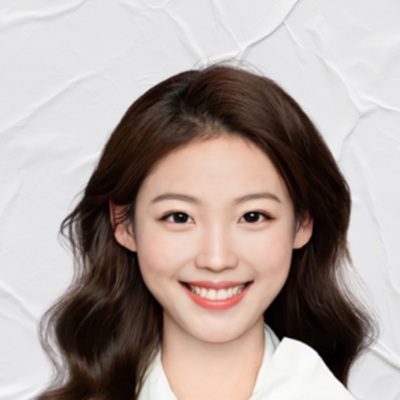
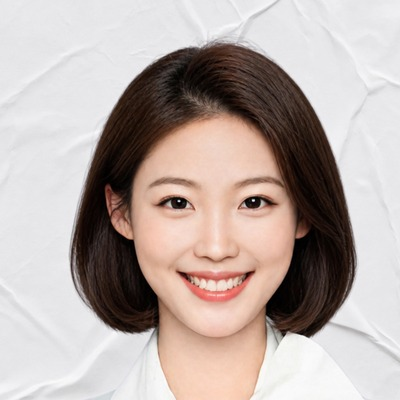
천진 홈페이지: 학교 타게팅 문구·상담 문구 수정, 원장 사진·천진도서관 이미지 교체

diff --git a/cheonjin/index.html b/cheonjin/index.html
@@ -202,7 +202,7 @@
       <h1><em>웃으며 배우고,</em><br />스스로 푸는 힘을 키웁니다</h1>
       <p class="hero-sub">
         개념을 정확히 이해할 때 비로소 공부가 즐거워집니다.<br />
-        태평초·원평초·버드내초·신평초·유평초와 충남여중·대성중·태평중 친구들이<br />
+        태평초·원평초·버드내초와 충남여중·태평중·글꽃중 친구들이<br />
         편하게 질문하며 단단한 실력을 쌓는 공간입니다.
       </p>
       <div class="hero-actions">
@@ -248,7 +248,7 @@
       </div>
       <div class="strength-box">
         <h3>3. 초등 기초 → 중등 내신 연결</h3>
-        <p>태평·원평·버드내초 기초 연산·파닉스부터 충남여·대성·태평중 내신 서술형까지 자연스럽게 이어집니다.</p>
+        <p>태평·원평·버드내초 기초 연산·파닉스부터 충남여·태평·글꽃중 내신 서술형까지 자연스럽게 이어집니다.</p>
       </div>
       <div class="strength-box">
         <h3>4. 첫 방문 30분 무료 학습 진단</h3>
@@ -258,8 +258,8 @@
 
     <div class="diag-box">
       <div>
-        <strong style="font-size:16px;color:#F6E2B3;">📩 30분 무료 학습 진단 · 원장 직통 문자 신청</strong>
-        <div style="font-size:13px;color:rgba(255,255,255,0.8);margin-top:2px;">학년과 과목을 고르고 누르면 원장님 번호로 문자가 바로 열립니다.</div>
+        <strong style="font-size:16px;color:#F6E2B3;">📩 30분 무료 학습 진단 · 문자 신청</strong>
+        <div style="font-size:13px;color:rgba(255,255,255,0.8);margin-top:2px;">학년과 과목을 고르고 누르면 바로 상담 문자가 열립니다.</div>
       </div>
       <div class="diag-controls">
         <select id="diagGrade" class="diag-select" aria-label="학생 학년">
@@ -295,8 +295,8 @@
         <div class="gal-cap"><div class="gal-sub">초·중등</div>수학교실</div>
       </div>
       <div class="gal-item">
-        <img src="assets/entrance_clean.jpg" alt="천진초등영수학원 입구" />
-        <div class="gal-cap"><div class="gal-sub">태평동 3층</div>학원 입구</div>
+        <img src="assets/room_library_retouched.jpg" alt="천진도서관" />
+        <div class="gal-cap"><div class="gal-sub">독서 · 학습 공간</div>천진도서관</div>
       </div>
     </div>
   </section>
@@ -327,16 +327,16 @@
 
     <div class="contact-grid">
       <a href="tel:01029904301" class="contact-btn">
-        <strong>📞 전화 상담 (바로 연결)</strong>
-        <span>누르면 010-2990-4301 원장 직통 전화가 바로 걸립니다. (평일 13:00–21:00)</span>
+        <strong>📞 전화 상담</strong>
+        <span>누르면 천진초등영수학원으로 바로 연결됩니다. (평일 13:00–21:00)</span>
       </a>
       <a href="sms:01029904301?body=%EC%95%88%EB%85%95%ED%95%98%EC%84%B8%EC%9A%94%2C%20%ED%95%99%EC%9B%90%20%EC%83%81%EB%8B%B4(%ED%95%99%EB%85%84%2F%EA%B3%BC%EB%AA%A9)%20%EB%AC%B8%EC%9D%98%EB%93%9C%EB%A6%BD%EB%8B%88%EB%8B%A4." class="contact-btn">
-        <strong>💬 문자 문의 (자동 문구 입력)</strong>
-        <span>수업 중에도 문자를 남기시면 확인 후 원장이 직접 답장드립니다.</span>
+        <strong>💬 문자 문의</strong>
+        <span>수업 중에도 문자를 남기시면 확인 후 순차적으로 답장드립니다.</span>
       </a>
       <a href="https://map.naver.com/p/entry/place/1159634736" target="_blank" rel="noopener" class="contact-btn">
-        <strong>📍 오시는 길 (네이버 지도)</strong>
-        <span>누르면 네이버 지도 '천진초등영수학원' 길찾기로 바로 열립니다. (태평로26번길 66, 3층)</span>
+        <strong>📍 오시는 길</strong>
+        <span>누르면 네이버 지도 길찾기로 바로 연결됩니다. (태평로26번길 66, 3층)</span>
       </a>
     </div>
 
